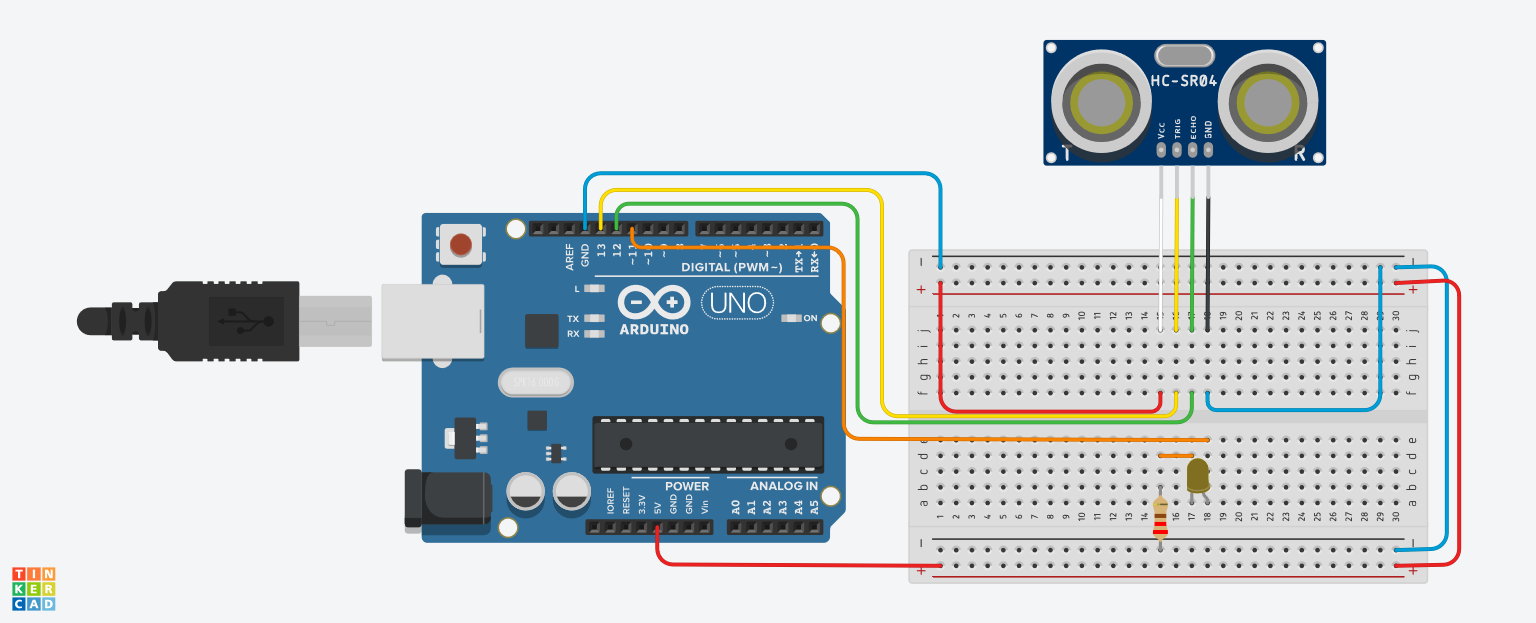
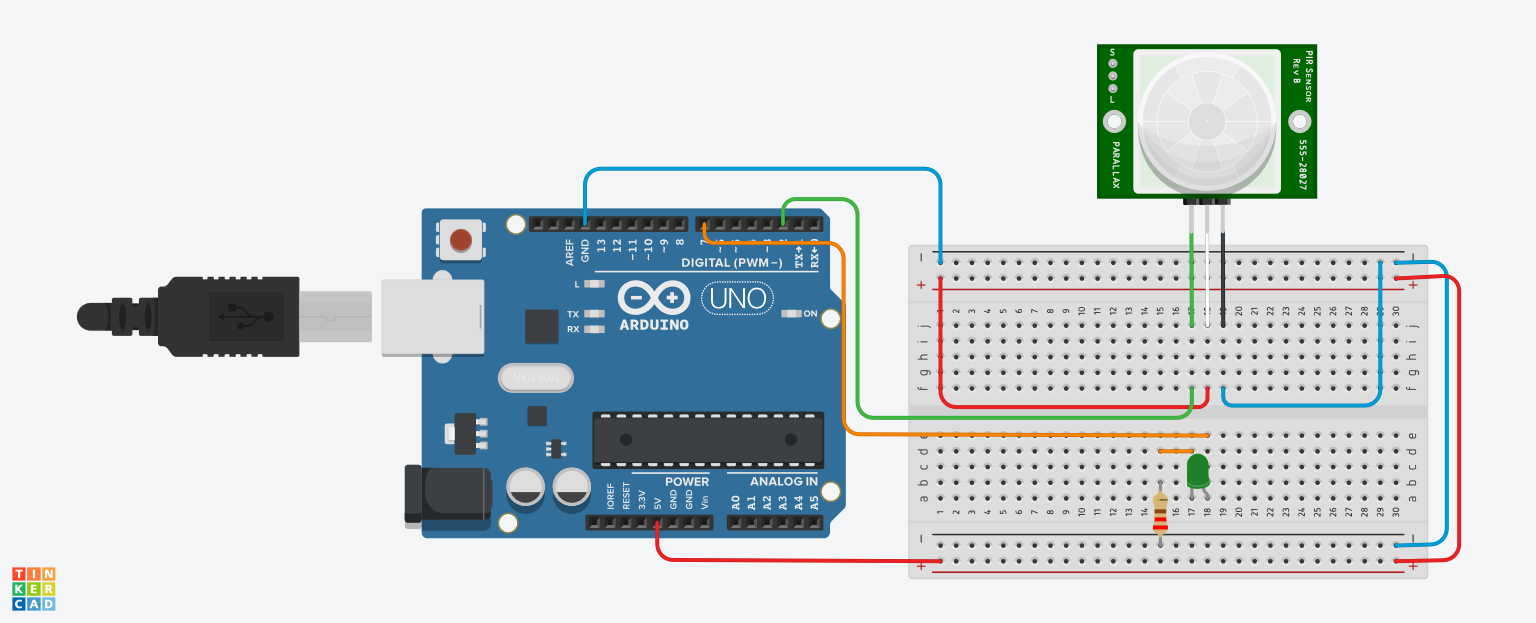
Task 1.1P (Edited) + Task 1.2P

diff --git a/Module1/Task1.2P.cpp b/Module1/Task1.2P.cpp
@@ -1,0 +1,31 @@
+// C++ code
+//
+const int pirPin = 2; // PIR Pin
+const int ledPin = 7; // LED Pin
+volatile byte ledState = HIGH;
+volatile byte pirState = LOW;
+
+void setup()
+{
+    Serial.begin(9600);            // Starting Serial Terminal
+    pinMode(pirPin, INPUT_PULLUP); // Set the pin for PIR
+    pinMode(ledPin, OUTPUT);       // Set the pin for LED
+    attachInterrupt(digitalPinToInterrupt(pirPin), turnLED, CHANGE);
+}
+
+void loop()
+{
+    pirState = digitalRead(pirPin);
+    Serial.print("No motion");
+    Serial.println();
+    digitalWrite(ledPin, ledState);
+    delay(1000);
+}
+
+void turnLED()
+{
+    ledState = !ledState;
+    Serial.print("Interrupted!");
+    Serial.println();
+    delay(1000);
+}

diff --git a/Module1/Task1.1P.cpp b/Module1/Task1.1P.cpp
@@ -1,0 +1,28 @@
+// C++ code
+//
+const int pirPin = 2; // PIR Pin
+const int ledPin = 7; // LED Pin
+volatile byte ledState = HIGH;
+volatile byte pirState = LOW;
+
+void setup()
+{
+    Serial.begin(9600);            // Starting Serial Terminal
+    pinMode(pirPin, INPUT_PULLUP); // Set the pin for PIR
+    pinMode(ledPin, OUTPUT);       // Set the pin for LED
+}
+
+void loop()
+{
+    pirState = digitalRead(pirPin);
+    Serial.print("No motion");
+    Serial.println();
+    if (pirState == HIGH)
+    {
+        ledState = !ledState;
+        Serial.print("Motion detected!");
+        Serial.println();
+    }
+    digitalWrite(ledPin, ledState);
+    delay(1000);
+}
